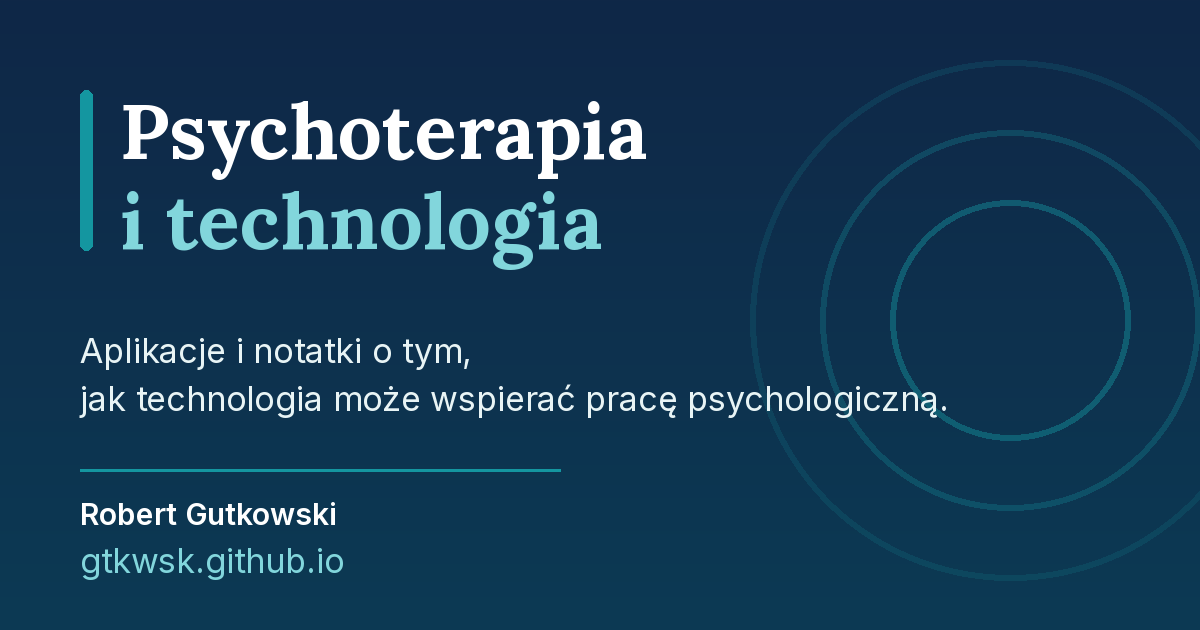
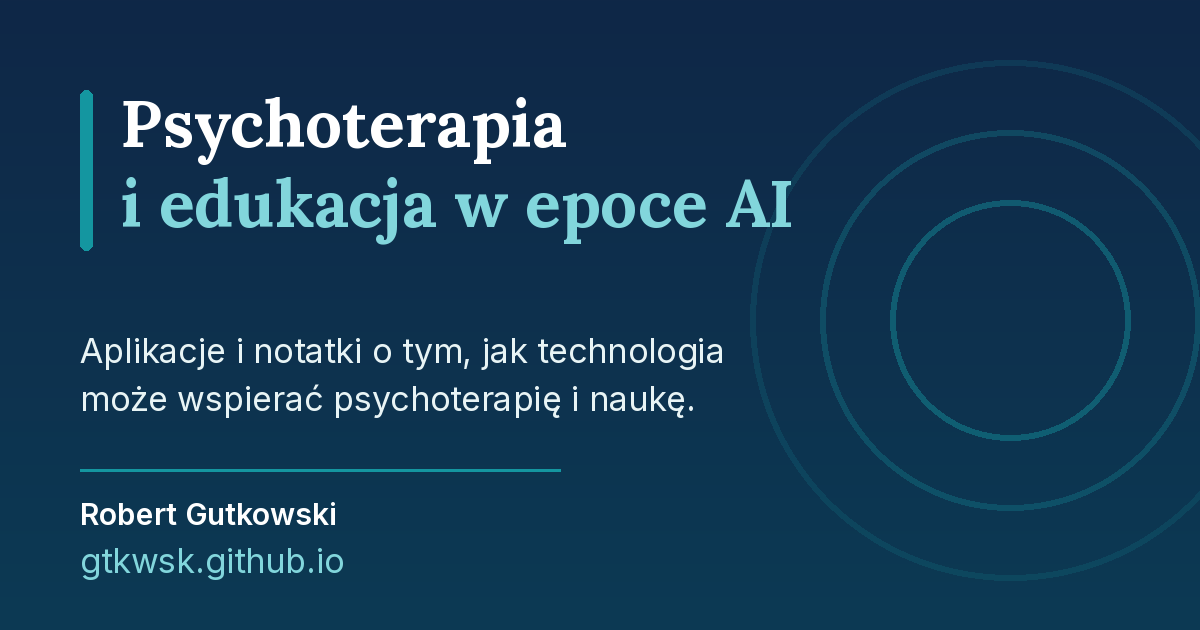
Nowa nazwa: Psychoterapia i edukacja w epoce AI

Changed region(s): [[0.0925, 0.1508, 0.6783, 0.4524], [0.0617, 0.5429, 0.8017, 0.6635]]

diff --git a/index.html b/index.html
@@ -3,7 +3,7 @@
 <head>
 <meta charset="utf-8">
 <meta name="viewport" content="width=device-width, initial-scale=1">
-<title>Psychoterapia i technologia – Robert Gutkowski</title>
+<title>Psychoterapia i edukacja w epoce AI</title>
 <meta name="description" content="Aplikacje i notatki o technologii i sztucznej inteligencji w psychoterapii. Projekty Roberta Gutkowskiego, m.in. aplikacja Usłysz Mnie – trening empatii dla rodziców nastolatków.">
 <meta name="author" content="Robert Gutkowski">
 <link rel="canonical" href="https://gtkwsk.github.io/">
@@ -13,18 +13,18 @@
 <link rel="apple-touch-icon" href="/assets/icon-180.png">
 <meta property="og:type" content="website">
 <meta property="og:locale" content="pl_PL">
-<meta property="og:site_name" content="Psychoterapia i technologia">
-<meta property="og:title" content="Psychoterapia i technologia – Robert Gutkowski">
-<meta property="og:description" content="Aplikacje i notatki o tym, jak technologia może wspierać pracę psychologiczną.">
+<meta property="og:site_name" content="Psychoterapia i edukacja w epoce AI">
+<meta property="og:title" content="Psychoterapia i edukacja w epoce AI">
+<meta property="og:description" content="Aplikacje i notatki o tym, jak technologia może wspierać psychoterapię i naukę.">
 <meta property="og:url" content="https://gtkwsk.github.io/">
 <meta property="og:image" content="https://gtkwsk.github.io/assets/og-image.png">
 <meta property="og:image:width" content="1200">
 <meta property="og:image:height" content="630">
-<meta property="og:image:alt" content="Psychoterapia i technologia – Robert Gutkowski">
+<meta property="og:image:alt" content="Psychoterapia i edukacja w epoce AI">
 <meta name="twitter:card" content="summary_large_image">
 <link rel="stylesheet" href="/style.css">
 <script type="application/ld+json">
-{"@context":"https://schema.org","@type":"WebSite","name":"Psychoterapia i technologia","url":"https://gtkwsk.github.io/","inLanguage":"pl","author":{"@type":"Person","name":"Robert Gutkowski","jobTitle":"Psychoterapeuta","sameAs":["https://www.linkedin.com/in/robert-gutkowski-526957124/","https://www.psycholog-debica.pl/"]}}
+{"@context":"https://schema.org","@type":"WebSite","name":"Psychoterapia i edukacja w epoce AI","url":"https://gtkwsk.github.io/","inLanguage":"pl","author":{"@type":"Person","name":"Robert Gutkowski","jobTitle":"Psychoterapeuta","sameAs":["https://www.linkedin.com/in/robert-gutkowski-526957124/","https://www.psycholog-debica.pl/"]}}
 </script>
 </head>
 <body>
@@ -33,7 +33,7 @@
   <div class="wrap nav">
     <a class="brand" href="/" aria-label="Strona główna">
       <span class="mark" aria-hidden="true">RG</span>
-      <span class="brand-text">Psychoterapia <em>i technologia</em></span>
+      <span class="brand-text">Psychoterapia <em>i edukacja w epoce AI</em></span>
     </a>
     <nav aria-label="Menu">
       <a href="/#aplikacje">Aplikacje</a>
@@ -48,7 +48,7 @@
   <section class="hero">
     <div class="wrap">
       <p class="eyebrow">Robert Gutkowski · projekty i aplikacje</p>
-      <h1>Psychoterapia i technologia</h1>
+      <h1>Psychoterapia i edukacja <span style="white-space:nowrap">w epoce AI</span></h1>
       <p class="lead">Sprawdzam, jak aplikacje i sztuczna inteligencja mogą wspierać pracę psychologiczną, i dzielę się tym, co z tego wychodzi.</p>
       <div class="cta">
         <a class="btn primary" href="#aplikacje">Zobacz aplikacje</a>
@@ -139,7 +139,7 @@
 <footer class="foot">
   <div class="wrap foot-grid">
     <div>
-      <p class="foot-title">Psychoterapia i technologia</p>
+      <p class="foot-title">Psychoterapia i edukacja w epoce AI</p>
       <p>Strona z projektami i notatkami Roberta Gutkowskiego.</p>
     </div>
     <ul class="links">

diff --git a/ai-w-edukacji/index.html b/ai-w-edukacji/index.html
@@ -3,7 +3,7 @@
 <head>
 <meta charset="utf-8">
 <meta name="viewport" content="width=device-width, initial-scale=1">
-<title>AI w edukacji – Psychoterapia i technologia – Robert Gutkowski</title>
+<title>AI w edukacji – Psychoterapia i edukacja w epoce AI</title>
 <meta name="description" content="Jak sztuczna inteligencja i aplikacje mogą wspierać naukę. Bezpłatne aplikacje edukacyjne dla uczniów klasy 5: Czytam mapę i Róża kierunków.">
 <meta name="author" content="Robert Gutkowski">
 <link rel="canonical" href="https://gtkwsk.github.io/ai-w-edukacji/">
@@ -13,7 +13,7 @@
 <link rel="apple-touch-icon" href="/assets/icon-180.png">
 <meta property="og:type" content="article">
 <meta property="og:locale" content="pl_PL">
-<meta property="og:site_name" content="Psychoterapia i technologia">
+<meta property="og:site_name" content="Psychoterapia i edukacja w epoce AI">
 <meta property="og:title" content="AI w edukacji – Robert Gutkowski">
 <meta property="og:description" content="Jak sztuczna inteligencja i aplikacje mogą wspierać naukę. Aplikacje edukacyjne dla uczniów klasy 5.">
 <meta property="og:url" content="https://gtkwsk.github.io/ai-w-edukacji/">
@@ -23,7 +23,7 @@
 <meta name="twitter:card" content="summary_large_image">
 <link rel="stylesheet" href="/style.css">
 <script type="application/ld+json">
-{"@context":"https://schema.org","@type":"WebPage","name":"AI w edukacji","url":"https://gtkwsk.github.io/ai-w-edukacji/","inLanguage":"pl","isPartOf":{"@type":"WebSite","name":"Psychoterapia i technologia","url":"https://gtkwsk.github.io/"},"author":{"@type":"Person","name":"Robert Gutkowski","sameAs":["https://www.linkedin.com/in/robert-gutkowski-526957124/","https://www.psycholog-debica.pl/"]}}
+{"@context":"https://schema.org","@type":"WebPage","name":"AI w edukacji","url":"https://gtkwsk.github.io/ai-w-edukacji/","inLanguage":"pl","isPartOf":{"@type":"WebSite","name":"Psychoterapia i edukacja w epoce AI","url":"https://gtkwsk.github.io/"},"author":{"@type":"Person","name":"Robert Gutkowski","sameAs":["https://www.linkedin.com/in/robert-gutkowski-526957124/","https://www.psycholog-debica.pl/"]}}
 </script>
 </head>
 <body>
@@ -32,7 +32,7 @@
   <div class="wrap nav">
     <a class="brand" href="/" aria-label="Strona główna">
       <span class="mark" aria-hidden="true">RG</span>
-      <span class="brand-text">Psychoterapia <em>i technologia</em></span>
+      <span class="brand-text">Psychoterapia <em>i edukacja w epoce AI</em></span>
     </a>
     <nav aria-label="Menu">
       <a href="/#aplikacje">Aplikacje</a>
@@ -121,7 +121,7 @@
 <footer class="foot">
   <div class="wrap foot-grid">
     <div>
-      <p class="foot-title">Psychoterapia i technologia</p>
+      <p class="foot-title">Psychoterapia i edukacja w epoce AI</p>
       <p>Strona z projektami i notatkami Roberta Gutkowskiego.</p>
     </div>
     <ul class="links">

diff --git a/404.html b/404.html
@@ -1,3 +1,3 @@
 <!doctype html>
-<html lang="pl"><head><meta charset="utf-8"><meta name="viewport" content="width=device-width, initial-scale=1"><title>Nie znaleziono strony – Psychoterapia i technologia</title><meta name="robots" content="noindex"><link rel="icon" href="/favicon.ico"><link rel="stylesheet" href="/style.css"></head>
+<html lang="pl"><head><meta charset="utf-8"><meta name="viewport" content="width=device-width, initial-scale=1"><title>Nie znaleziono strony – Psychoterapia i edukacja w epoce AI</title><meta name="robots" content="noindex"><link rel="icon" href="/favicon.ico"><link rel="stylesheet" href="/style.css"></head>
 <body><main class="section"><div class="wrap"><h1>Nie ma takiej strony</h1><p>Ten adres nie istnieje albo został przeniesiony.</p><a class="btn primary" href="/">Wróć na stronę główną</a></div></main></body></html>

diff --git a/README.md b/README.md
@@ -1,4 +1,4 @@
-# Psychoterapia i technologia – Robert Gutkowski
+# Psychoterapia i edukacja w epoce AI
 
 Statyczna strona (HTML/CSS, bez kroku budowania) dla GitHub Pages: https://gtkwsk.github.io/
 
